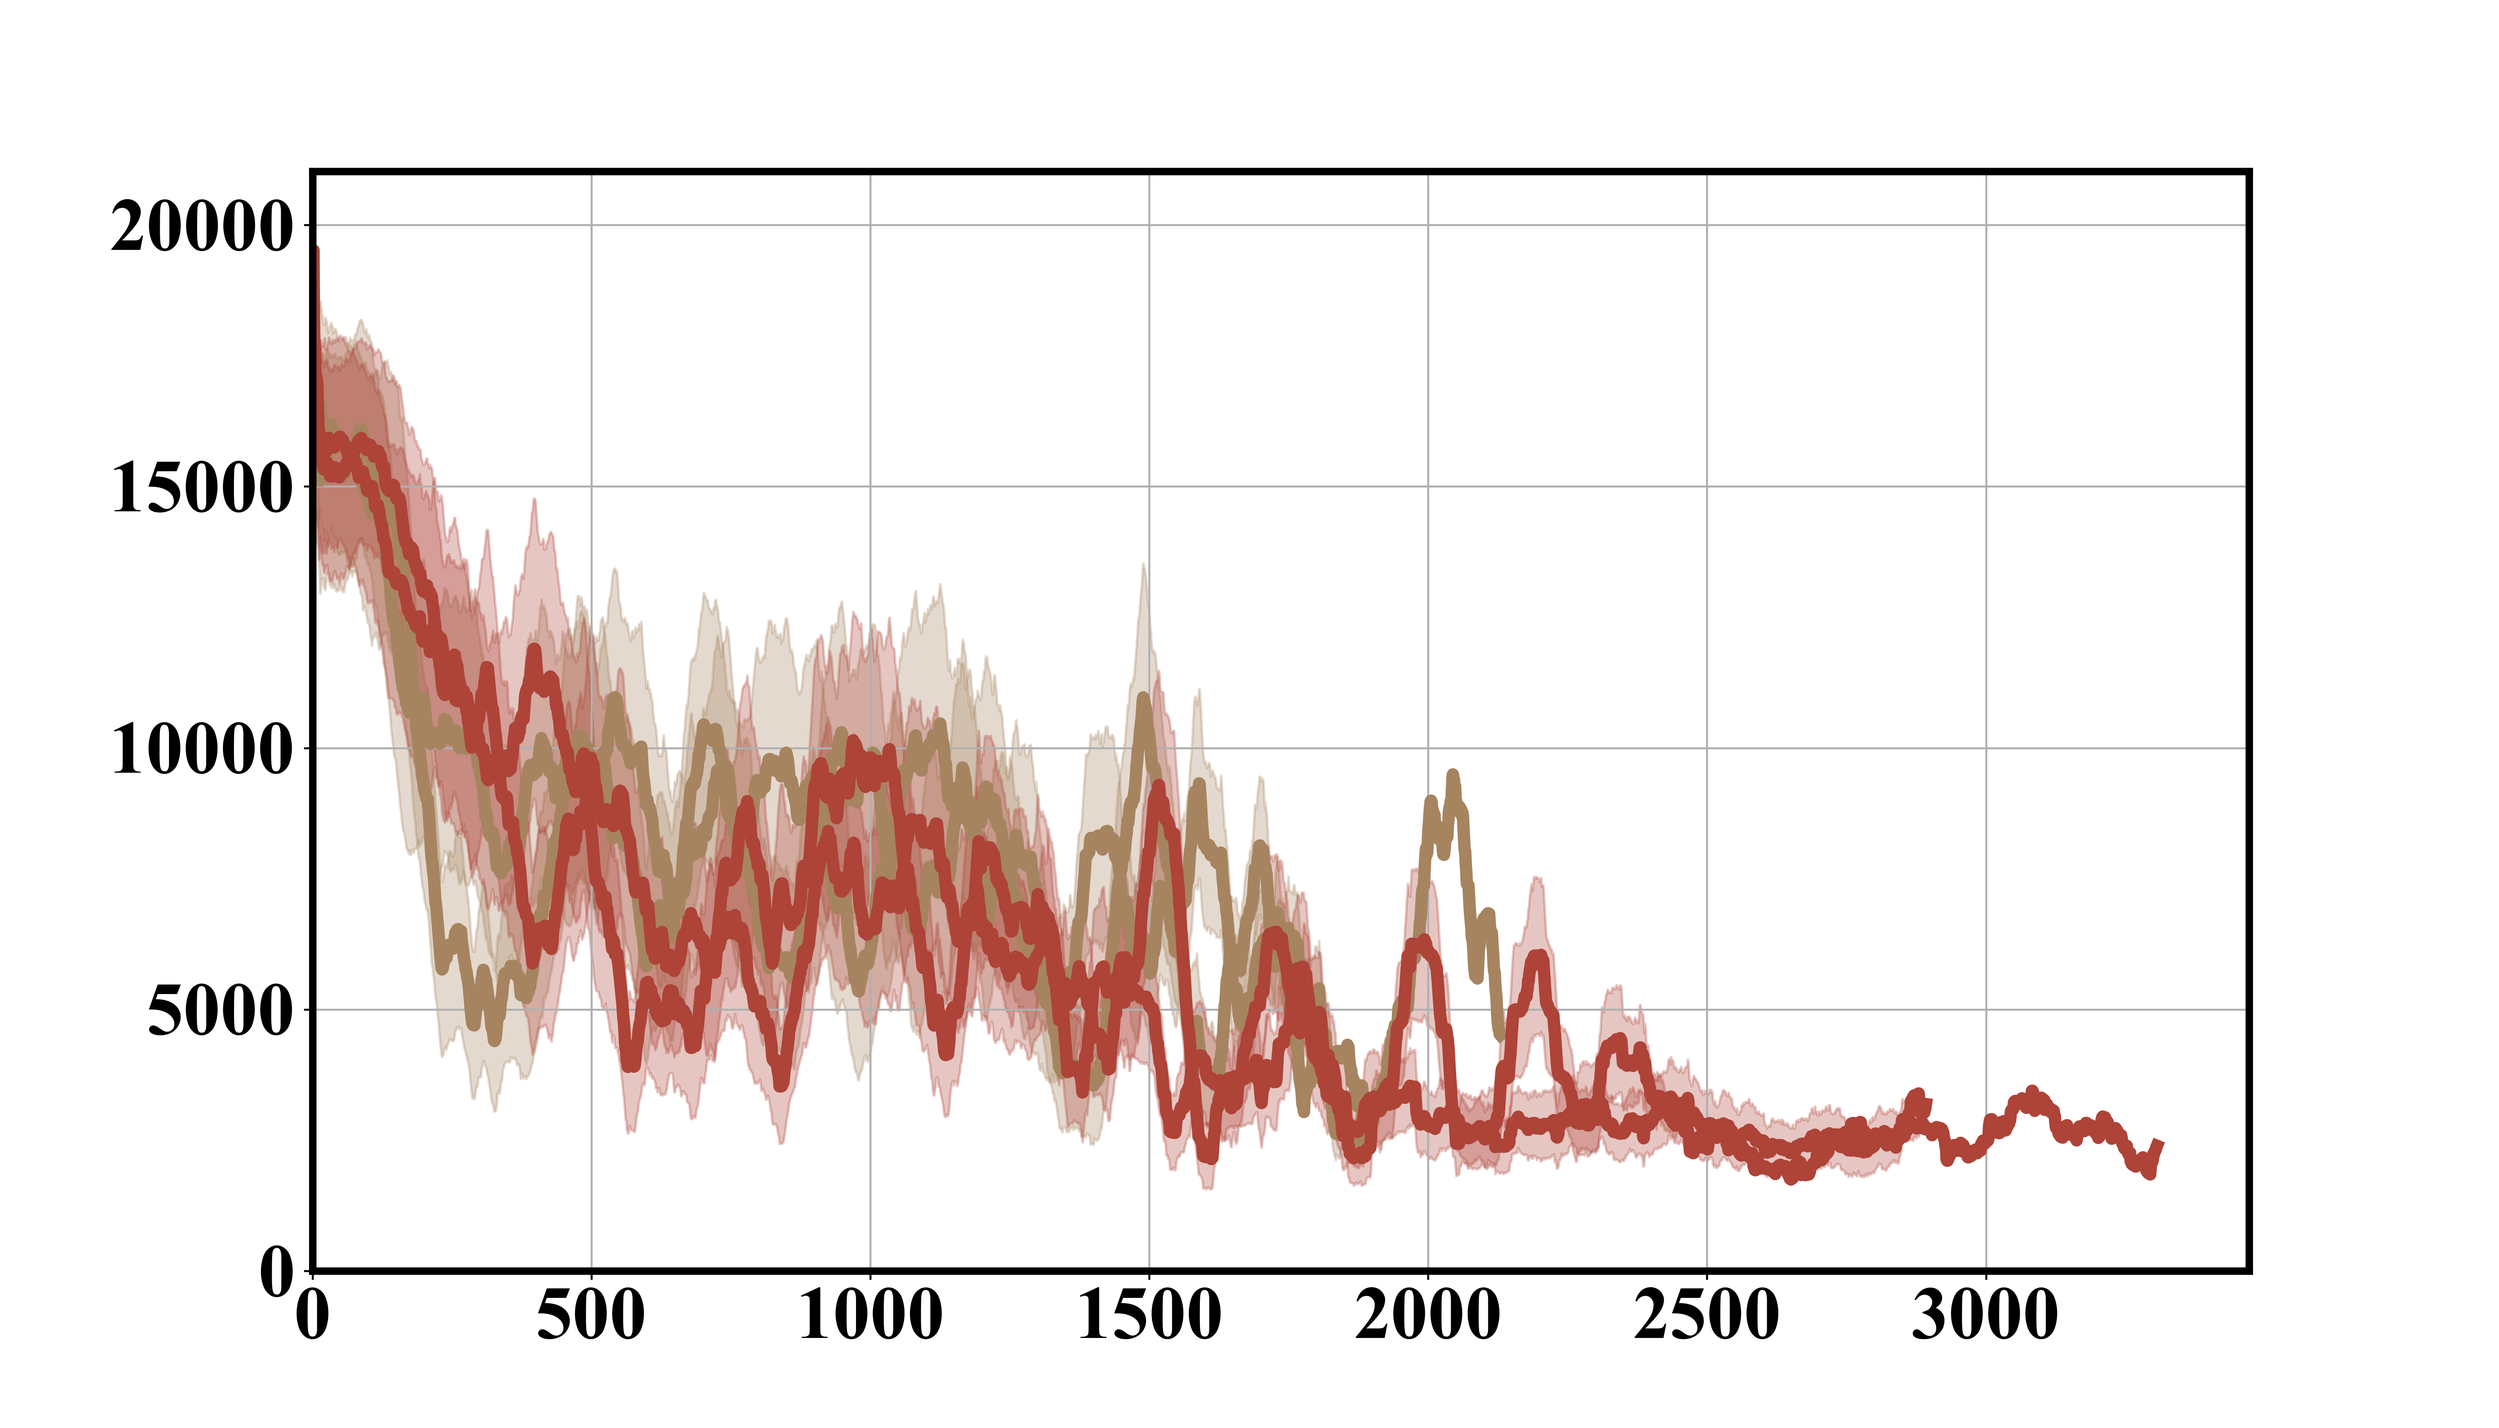
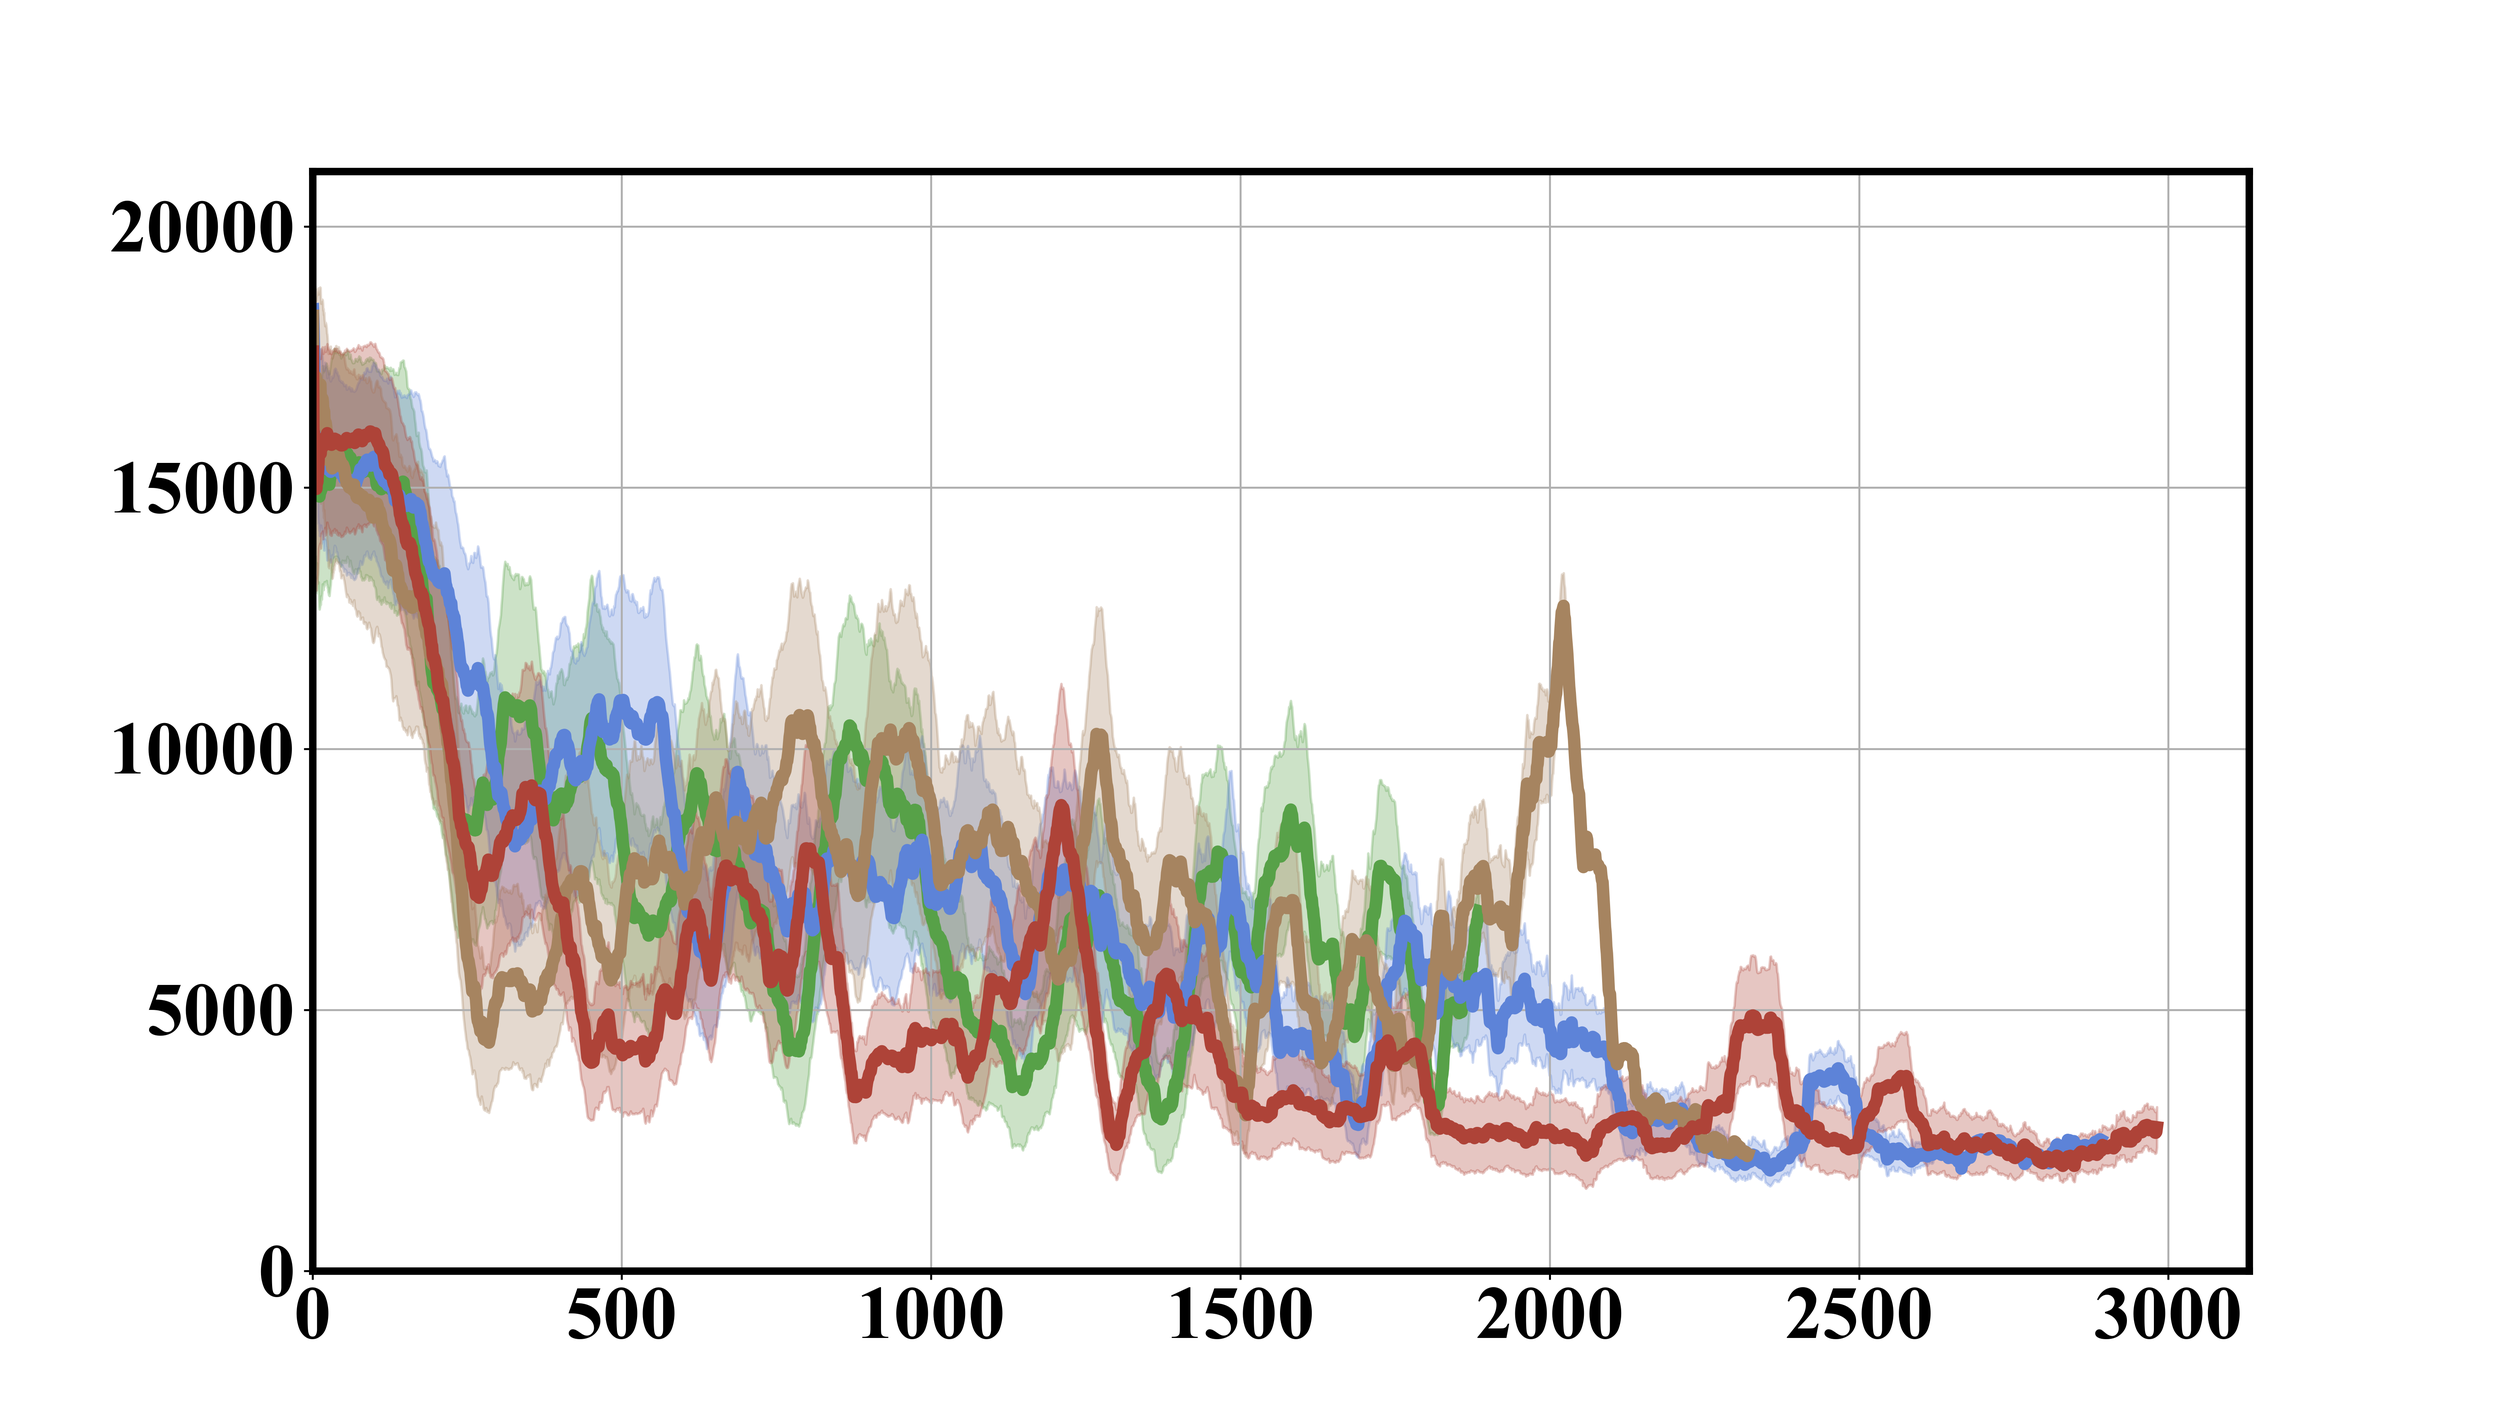
:sparkles: More figures

diff --git a/post_processing/november/draw_figures.py b/post_processing/november/draw_figures.py
@@ -1,5 +1,6 @@
 import math
 import os
+from collections import defaultdict
 from typing import Tuple, List, Dict
 
 import matplotlib.pyplot as plt
@@ -62,6 +63,7 @@ def plot_groups(
     plt.figure(figsize=(14, 8))
 
     for group_name, group_data in groups.items():
+        print(group_name)
         group_data: List[pd.DataFrame]
         # ffill the x_axis
         for i in range(len(group_data)):
@@ -83,6 +85,7 @@ def plot_groups(
             assert group_data[i][axis_y_name].isnull().sum() == 0
             assert group_data[i][axis_x_name].isnull().sum() == 0
             assert len(group_data[i][axis_x_name]) == len(group_data[i][axis_y_name])
+            print(i)
 
         avg_data = calculate_group_average(group_data, axis_x_name, axis_y_name)
         std_data = calculate_group_std(group_data, axis_x_name, axis_y_name)
@@ -91,13 +94,13 @@ def plot_groups(
         std_data = running_average(std_data, window_size)
 
         # Determine color based on the group
-        if "transition" in group_name:
+        if "sparse_dense" in group_name:
             color = "#AE4338"  # 174 67 56 red
-        elif "sparse" in group_name:
+        elif "sparse_sparse" in group_name:
             color = "#57A148"  # 87 161 72 green
-        elif "dense" in group_name:
+        elif "dense_dense" in group_name:
             color = "#5D83D8"  # 93 131 216 blue
-        elif "d2s" in group_name:
+        elif "dense_sparse" in group_name:
             color = "#A68460"  # 166 132 96 brown
         else:
             raise ValueError(f"Unknown group: {group_name}")
@@ -118,6 +121,7 @@ def plot_groups(
             linewidth=5.0,
             color=color,
         )
+        print("ploted")
         plt.fill_between(
             avg_data[axis_x_name],
             avg_data[axis_y_name] - std_data[axis_y_name],
@@ -125,6 +129,7 @@ def plot_groups(
             alpha=0.3,
             color=color,
         )
+        print("filled")
 
         if "global_step" in axis_x_name and "episode" in axis_y_name:
             # print(f"{avg_data[axis_x_name]=}")
@@ -149,14 +154,20 @@ def plot_groups(
     # plt.legend()
     # plt.title(f"{axis_x_name} vs {axis_y_name}")
     y_max = 8000
+    y_min = 0
     if "rate" in axis_y_name:
         y_max = 1
     elif "length" in axis_y_name:
         y_max = 20000
     elif "eval_episode" in axis_y_name:
         y_max = 1000
-    plt.ylim(bottom=0)  # , top=y_max
-    plt.xlim(left=0)
+    if "success_rate" in axis_y_name:
+        x_max = 10000000  # 5000000
+        y_min = 0.4
+    else:
+        x_max = None
+    plt.ylim(bottom=y_min)  # , top=y_max
+    plt.xlim(left=0, right=x_max)
     plt.grid(True)
 
     # plt.show()
@@ -164,83 +175,32 @@ def plot_groups(
     axis_x_name = axis_x_name.replace("/", "_")
     axis_y_name = axis_y_name.replace("/", "_")
     figure_path = f"./figures/{groups_name}-{axis_x_name}_{axis_y_name}.png"
-    plt.savefig(figure_path, dpi=450)
+    plt.savefig(figure_path, dpi=300)
+    print(f"Saved {figure_path}")
 
 
 def main():
-    all_run_data_dir = "./all_run_data"
-    cross_0_groups = {}
-    cross_1_groups = {}
-    cross_2_groups = {}
-    room_groups = {}
-
-    useful_groupnames = {
-        # "cross_0-global_step_episode": (
-        #     # "v30-crossw2-transition-2000000-0",
-        #     "v30-crossw2-transition-1000000-0",
-        #     "v30-crossw2-transition-3000000-0",
-        #     # "v30-crossw2-d2s-3000000-0",
-        #     "v30-crossw2-d2s-2000000-0",
-        #     "v30-crossw2-d2s-1000000-0",
-        #     # "v30-crossw2-dense-0",
-        #     # "v30-crossw2-sparse-0",
-        # ),
-        # "cross_1-global_step_episode": (
-        #     "v30-crossw2-transition-1000000-1",
-        #     "v30-crossw2-transition-3000000-1",
-        #     # "v30-crossw2-transition-2000000-1",
-        #     # "v30-crossw2-d2s-2000000-1",
-        #     "v30-crossw2-d2s-1000000-1",
-        #     "v30-crossw2-d2s-3000000-1",
-        #     # "v30-crossw2-dense-1",
-        #     # "v30-crossw2-sparse-1",
-        # ),
-        # "cross_2-global_step_episode": (
-        #     # "v30-crossw2-transition-2000000-2",
-        #     "v30-crossw2-transition-1000000-2",
-        #     "v30-crossw2-transition-3000000-2",
-        #     # "v30-crossw2-d2s-2000000-2",
-        #     "v30-crossw2-d2s-1000000-2",
-        #     "v30-crossw2-d2s-3000000-2",
-        #     # "v30-crossw2-dense-2",
-        #     # "v30-crossw2-sparse-2",
-        # ),
-        "room": (
-            # "v31-room-v1-transition-1000000",
-            # "v31-room-v1-transition-2000000",
-            "v31-room-v1-transition-3000000",
-            "v31-room-v1-d2s-3000000",
-            # "v31-room-v1-d2s-2000000",
-            # "v31-room-v1-d2s-1000000",
-            "v31-room-v1-sparse",
-            "v31-room-v1-dense",
-        ),
-    }
-    flatten_groupnames = [
-        groupname
-        for groupnames in useful_groupnames.values()
-        for groupname in groupnames
-    ]
-
-    for group_dir in os.listdir(all_run_data_dir):
-        if group_dir not in flatten_groupnames:
+    all_run_data_dir = "./merged_241111"
+    room_groups = defaultdict(list)
+    for file_name in os.listdir(all_run_data_dir):
+        # check if csv
+        if not file_name.endswith(".csv"):
             continue
-        group_path = os.path.join(all_run_data_dir, group_dir)
-        if os.path.isdir(group_path):
-            group_data = load_group_data(group_path)
-            if "crossw2" in group_dir:
-                if group_dir.endswith("0"):
-                    cross_0_groups[group_dir] = group_data
-                elif group_dir.endswith("1"):
-                    cross_1_groups[group_dir] = group_data
-                elif group_dir.endswith("2"):
-                    cross_2_groups[group_dir] = group_data
-                else:
-                    raise ValueError(f"Unknown group: {group_dir}")
-            elif "room" in group_dir:
-                room_groups[group_dir] = group_data
-            else:
-                raise ValueError(f"Unknown group: {group_dir}")
+        file_path = os.path.join(all_run_data_dir, file_name)
+        # 파일 이름에서 'from'과 'to' 추출
+        parts = file_name.split("_")
+        from_type = parts[0]  # dense 또는 sparse
+        to_type = parts[2]  # dense 또는 sparse
+
+        if from_type == "dense":
+            if "7777" in file_name or "2024" in file_name:
+                continue
+
+        # CSV 파일을 DataFrame으로 읽기
+        df = pd.read_csv(file_path)
+
+        # (from, to) 키를 사용하여 딕셔너리에 DataFrame 추가
+        room_groups[f"{from_type}_{to_type}"].append(df)
     # Plot
     # cross:
     # Grouping based on the end number of the group.
@@ -267,12 +227,13 @@ def main():
     }
     # Group by eval_idx and room
     window_size = 80
-    for cross_axis in axises["cross"]:
-        plot_groups(cross_0_groups, "cross_0", cross_axis, window_size=window_size)
-        plot_groups(cross_1_groups, "cross_1", cross_axis, window_size=window_size)
-        plot_groups(cross_2_groups, "cross_2", cross_axis, window_size=window_size)
+    # for cross_axis in axises["cross"]:
+    #     plot_groups(cross_0_groups, "cross_0", cross_axis, window_size=window_size)
+    #     plot_groups(cross_1_groups, "cross_1", cross_axis, window_size=window_size)
+    #     plot_groups(cross_2_groups, "cross_2", cross_axis, window_size=window_size)
     for room_axis in axises["room"]:
         plot_groups(room_groups, "room", room_axis, window_size=window_size)
+        print(f"Plotted {room_axis}")
 
 
 if __name__ == "__main__":

diff --git a/post_processing/november/merge_logs.py b/post_processing/november/merge_logs.py
@@ -1,0 +1,128 @@
+import os
+import re
+from collections import defaultdict
+from typing import Optional, Dict
+
+import pandas as pd
+
+base_dir = "../all_run_data241111/"
+
+
+def extract_info(string) -> Optional[Dict]:
+    # Regular expression to match the desired components
+    match = re.match(
+        r"v33-room-v1-(sparse|dense)-False-seed(\d+)-from_(sparse|dense|)$", string
+    )
+    if match:
+        return {
+            "type": match.group(1),
+            "seed": int(match.group(2)),
+            "from": match.group(3) if match.group(3) else None,
+            "path": string,
+        }
+    return None
+
+
+def iterate_and_group_by_seed():
+    seed_groups = defaultdict(list)
+    # Iterate through directories and parse information
+    for dir in os.listdir(base_dir):
+        parsed = extract_info(dir)
+        if parsed:
+            seed_groups[parsed["seed"]].append(parsed)
+
+    return seed_groups
+
+
+def get_pairs_to_merge(seed_groups):
+    pairs = []
+    for seed, nodes in seed_groups.items():
+        # Separate nodes into roots (from is None) and others
+        roots = [node for node in nodes if node["from"] is None]
+        children = [node for node in nodes if node["from"] is not None]
+
+        # Find pairs to merge starting from roots
+        for root in roots:
+            find_pairs(root, children, pairs)
+    return pairs
+
+
+def find_pairs(current_node, children, pairs):
+    # Find children of the current node
+    for child in children:
+        if child["from"] == current_node["type"]:
+            pairs.append((current_node, child))
+
+
+def iterate_and_print_parsed():
+    base_dir = "../all_run_data241110/"
+    for dir in os.listdir(base_dir):
+        full_path = os.path.join(base_dir, dir)
+        parsed = extract_info(dir)
+        if parsed:
+            print(
+                f"{full_path} -> {parsed['from']} to {parsed['type']}; {parsed['seed']}"
+            )
+        else:
+            print(f"{full_path} -> None")
+
+
+def concat_logs(file_A: str, file_B: str):
+    # Read CSV files into DataFrames
+    df_A = pd.read_csv(file_A, index_col=0)
+    df_B = pd.read_csv(file_B, index_col=0)
+
+    # Calculate offsets
+    episode_offset = df_A["episode"].max()
+    global_step_offset = 3000320 + 512
+
+    # Adjust B's values
+    df_B["episode"] = df_B["episode"] + episode_offset
+    df_B["global_step"] = df_B["global_step"] + global_step_offset
+
+    # Update success counts and rates
+    for i in range(4):
+        success_count_col = f"{i}/success_count"
+        visited_count_col = f"{i}/visited_count"
+        success_rate_col = f"{i}/success_rate"
+
+        df_A[visited_count_col] = df_A[success_count_col] / df_A[success_rate_col]
+        df_B[visited_count_col] = df_B[success_count_col] / df_B[success_rate_col]
+
+        max_visited_count = df_A[visited_count_col].max()
+        max_success_count = df_A[success_count_col].max()
+
+        df_B[visited_count_col] = df_B[visited_count_col] + max_visited_count
+        df_B[success_count_col] = df_B[success_count_col] + max_success_count
+        df_B[success_rate_col] = df_B[success_count_col] / df_B[visited_count_col]
+
+    # Concatenate A and B
+    df_combined = pd.concat([df_A, df_B], ignore_index=True).reset_index(drop=True)
+
+    return df_combined
+
+
+if __name__ == "__main__":
+    # iterate_and_print_parsed()
+    seed_groups = iterate_and_group_by_seed()
+    pairs_to_merge = get_pairs_to_merge(seed_groups)
+    for pair in pairs_to_merge:
+        print(
+            f"Merge {pair[0]['type']} (seed {pair[0]['seed']}) to {pair[1]['type']} (seed {pair[1]['seed']})"
+        )
+        print(pair[0]["path"] + " + " + pair[1]["path"])
+
+        path1 = os.path.join(base_dir, pair[0]["path"])
+        path2 = os.path.join(base_dir, pair[1]["path"])
+        file_A = os.path.join(
+            path1, [f for f in os.listdir(path1) if f.endswith(".csv")][0]
+        )
+        file_B = os.path.join(
+            path2, [f for f in os.listdir(path2) if f.endswith(".csv")][0]
+        )
+
+        merged_log: pd.DataFrame = concat_logs(file_A, file_B)
+        # save the file as csv
+        output_path = f"merged_241111/{pair[0]['type']}_to_{pair[1]['type']}_seed_{pair[1]['seed']}.csv"
+        merged_log.to_csv(output_path, index=True)
+        print(f"Saved merged log to {output_path}")

diff --git a/post_processing/download_all_run_data.py b/post_processing/download_all_run_data.py
@@ -1,9 +1,10 @@
 import os
+from datetime import datetime
 
 import pandas as pd
 import wandb
 from tqdm import tqdm
-from wandb.apis.public import Run
+from wandb.apis.public import Run, Runs
 
 from wandb_envs import WANDB_ENTITY, WANDB_PROJECT
 
@@ -81,5 +82,28 @@ def main():
         download_wandb_file(run, "./all_run_data")
 
 
+def main241110():
+    # Get all the runs from groups
+
+    api = wandb.Api(timeout=120)
+    WANDB_ENTITY = "jourhyang123"
+    WANDB_PROJECT = "nature-journal-room_experiments"
+    runs: Runs = api.runs(f"{WANDB_ENTITY}/{WANDB_PROJECT}")
+    group_runs = [
+        run
+        for run in runs
+        if run.group.startswith("v33-room-")
+        and datetime.strptime(run.created_at, "%Y-%m-%dT%H:%M:%SZ")
+        >= datetime(datetime.now().year, 11, 1)
+    ]
+    print(f"Found {len(group_runs)} runs")
+
+    with open("run_lists241111.csv", "w") as f:
+        for run in group_runs:
+            f.write(f"{run.id}, {run.group}\n")
+    for run in tqdm(group_runs):
+        download_wandb_file(run, "./all_run_data241111")
+
+
 if __name__ == "__main__":
-    main()
+    main241110()
